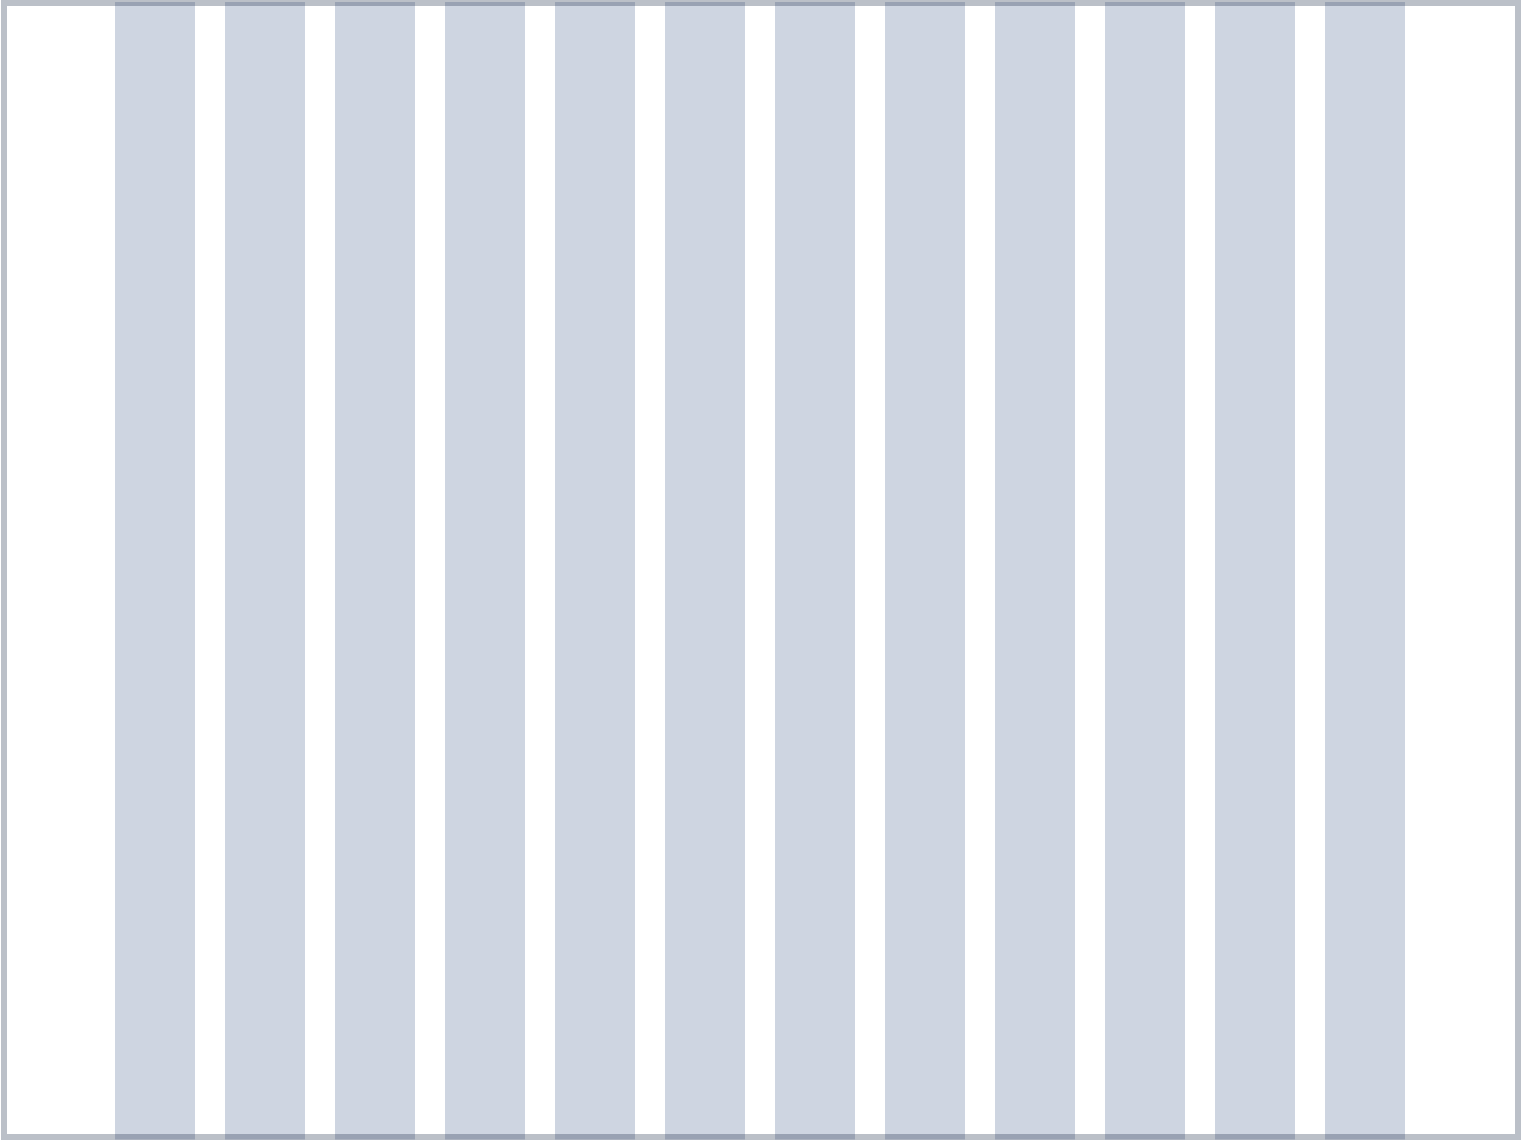
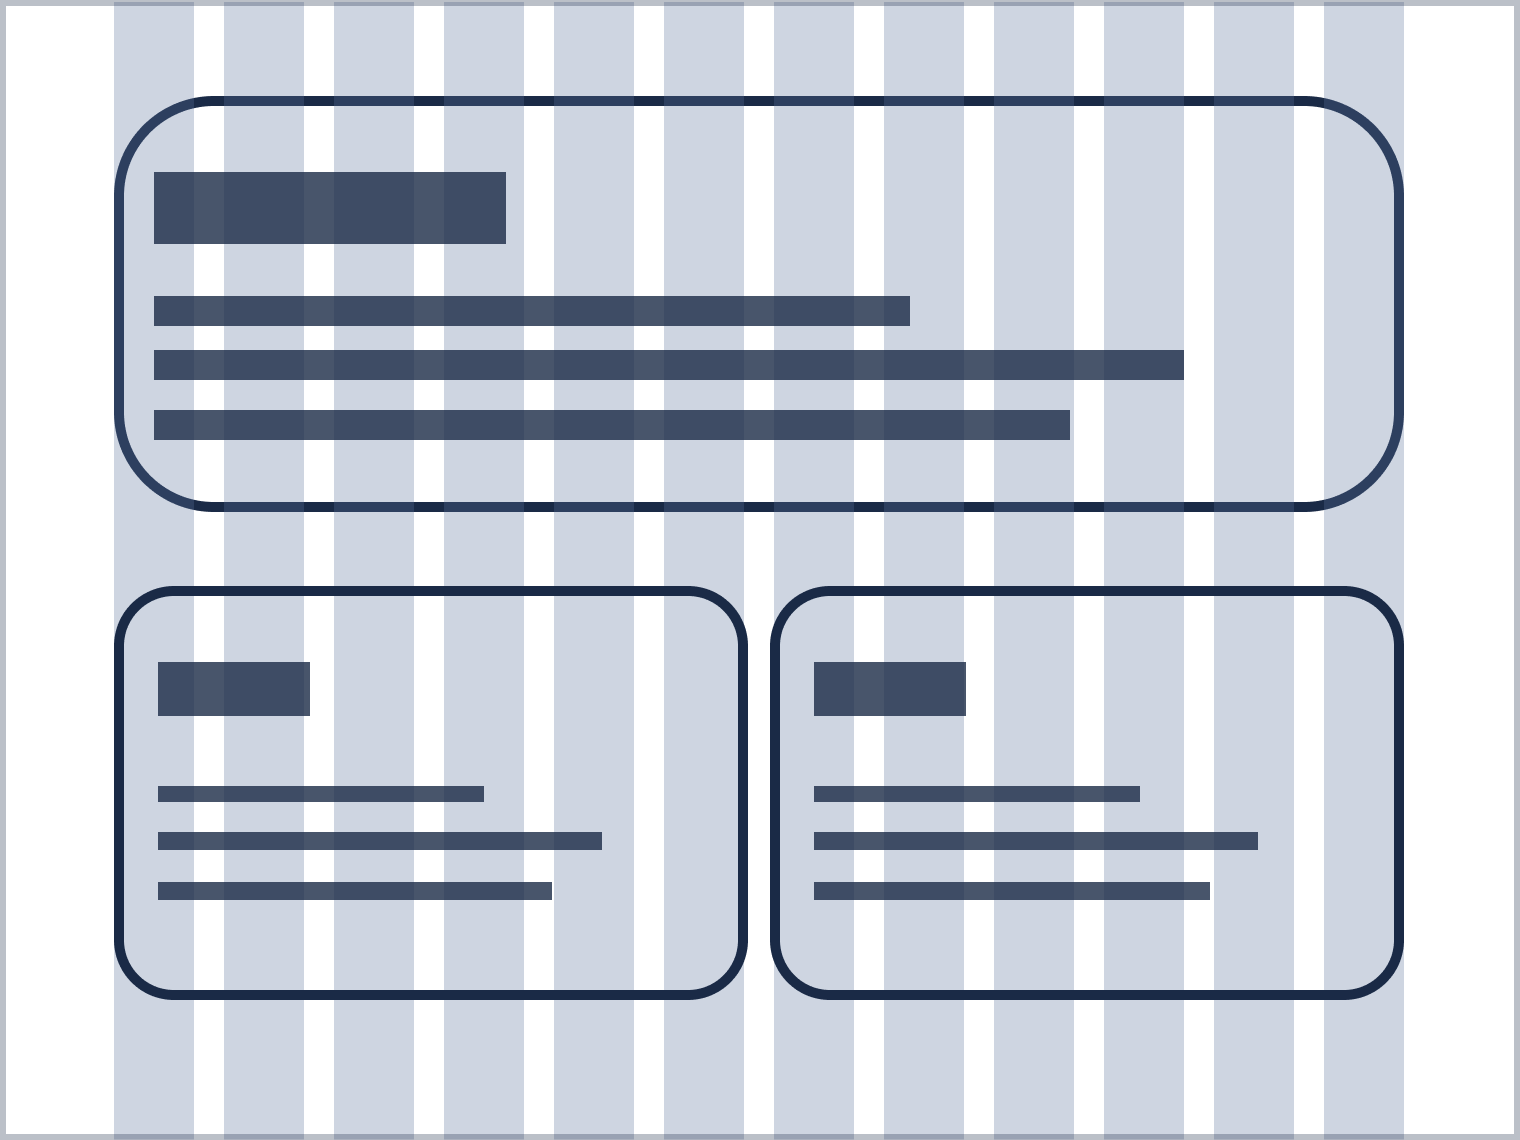
full grid page

diff --git a/source/grid.html b/source/grid.html
@@ -36,7 +36,8 @@
       <div class="inner-content">
         <section class="grid-concept main-inner__section observed-section" id="concept">
           <h2 class="main-inner__title title title--middle">Концепция сетки</h2>
-          <p class="grid-concept__text">Для обеспечения структурированности и&nbsp;легкости восприятия контента
+          <p class="grid-concept__text main-inner__title">Для обеспечения структурированности и&nbsp;легкости восприятия
+            контента
             на&nbsp;странице мы&nbsp;используем сетку, основанную на&nbsp;12&nbsp;колонках. Это обеспечивает гибкость
             распределения элементов и&nbsp;и&nbsp;создает удобный, интуитивно понятный горизонтальный ритм.</p>
           <h3 class="main-inner__subtitle title title--small">Преимущества</h3>
@@ -52,6 +53,77 @@
                 alt="Темноволосая девушка сидит в позе лотоса и медитирует" width="253" height="216">
             </picture>
           </div> -->
+        </section>
+        <section class="columng-grid main-inner__section observed-section" id="column">
+          <h2 class="main-inner__title title title--middle">Колонки</h2>
+          <p class="columng-grid__text main-inner__subtitle">Содержимое контента выравнивается по&nbsp;12-ти столбцам
+            сетки, для обеспечения
+            порядка и&nbsp;легкого интуитивно понятного восприятия.</p>
+          <picture class="columng-grid__picture">
+            <source type="image/webp" srcset="img/column.webp 1x,img/column@2x.webp 2x">
+            <img class="columng-grid__image" src="img/column.png" srcset="img/column@2x.png 2x"
+              alt="Содержимое нашего контента находится в пределах 12 колонок" width="760" height="570">
+          </picture>
+        </section>
+        <section class="gap-grid main-inner__section observed-section" id="gap">
+          <h2 class="main-inner__title title title--middle">Гэпы</h2>
+          <p class="gap-grid__text main-inner__subtitle">Размер внутренних отступов между колонками в&nbsp;контейнере
+            фиксирован и&nbsp;равен 30px.</p>
+          <picture class="gap-grid__picture">
+            <source type="image/webp" srcset="img/gap.webp 1x,img/gap@2x.webp 2x">
+            <img class="gap-grid__image" src="img/gap.png" srcset="img/gap@2x.png 2x"
+              alt="Отступ между колонками равен 30 пикселям" width="760" height="570">
+          </picture>
+        </section>
+        <section class="padding-grid main-inner__section observed-section" id="padding">
+          <h2 class="main-inner__title title title--middle">Паддинг</h2>
+          <p class="padding-grid__text main-inner__subtitle">Пространство между внешними столбцами и&nbsp;контейнером
+            неизменно всегда и&nbsp;равно 60px.</p>
+          <picture class="padding-grid__picture">
+            <source type="image/webp" srcset="img/padding.webp 1x,img/padding@2x.webp 2x">
+            <img class="padding-grid__image" src="img/padding.png" srcset="img/padding@2x.png 2x"
+              alt="Паддинг от контейнера до края экрана равен 60 пикселям" width="760" height="570">
+          </picture>
+        </section>
+        <section class="width-grid main-inner__section observed-section" id="width">
+          <h2 class="main-inner__title title title--middle">Размеры</h2>
+          <p class="width-grid__text main-inner__subtitle">Размер контейтера определяет базовую сетку, ширина экрана
+            равна 1160px.</p>
+          <picture class="width-grid__picture">
+            <source type="image/webp" srcset="img/width.webp 1x,img/width@2x.webp 2x">
+            <img class="width-grid__image" src="img/width.png" srcset="img/width@2x.png 2x"
+              alt="Контентная область сайта равна 1160 пикселям" width="760" height="570">
+          </picture>
+        </section>
+        <section class="menu-grid main-inner__section observed-section" id="menu">
+          <h2 class="main-inner__title title title--middle">Меню</h2>
+          <p class="menu-grid__text main-inner__subtitle">Меню занимает размер сетки в&nbsp;ширину в&nbsp;12-ти
+            столбцов&nbsp;&mdash; 1160px.</p>
+          <picture class="menu-grid__picture">
+            <source type="image/webp" srcset="img/menu.webp 1x,img/menu@2x.webp 2x">
+            <img class="menu-grid__image" src="img/menu.png" srcset="img/menu@2x.png 2x"
+              alt="Меню занимает всю контентную область" width="760" height="570">
+          </picture>
+        </section>
+        <section class="content-grid main-inner__section observed-section" id="content">
+          <h2 class="main-inner__title title title--middle">Расположение контента</h2>
+          <p class="content-grid__text main-inner__subtitle">Контент располагается на сетке, согласно стоблцам.</p>
+          <picture class="content-grid__picture">
+            <source type="image/webp" srcset="img/content.webp 1x,img/content@2x.webp 2x">
+            <img class="content-grid__image" src="img/content.png" srcset="img/content@2x.png 2x"
+              alt="Один блок занимает всю ширину, под ним 2 рядом" width="760" height="570">
+          </picture>
+        </section>
+        <section class="fixed-grid main-inner__section observed-section" id="fixed">
+          <h2 class="main-inner__title title title--middle">Фиксированный контент</h2>
+          <p class="fixed-grid__text main-inner__subtitle">Боковая навигационная панель имеет фиксированную ширину
+            и&nbsp;не&nbsp;вписывается в&nbsp;сетку. Если нужно разместить контент относительно нее, используем
+            в&nbsp;качестве отступа размер желоба умноженный на&nbsp;2&nbsp;&mdash; 80px.</p>
+          <picture class="fixed-grid__picture">
+            <source type="image/webp" srcset="img/fixedContent.webp 1x,img/fixedContent@2x.webp 2x">
+            <img class="fixed-grid__image" src="img/fixedContent.png" srcset="img/fixedContent@2x.png 2x"
+              alt="Меню сбоку имеет фиксированный размер, а расстояние от него до центральной части равно 97 пискелей" width="760" height="570">
+          </picture>
         </section>
       </div>
     </div>

diff --git a/source/palette.html b/source/palette.html
@@ -36,7 +36,7 @@
         <section class="important-color main-inner__section observed-section" id="important">
           <h2 class="main-inner__title title title--middle">Важность цвета</h2>
           <h3 class="main-inner__subtitle title title--small">Цвет и&nbsp;эмоции</h3>
-          <div class="important-color__block important-color__block--role flex">
+          <div class="important-color__block main-inner__subtitle flex">
             <p class="important-color__block-text important-color__block-text--emotion">Цвет в&nbsp;нашей дизайн системе
               играет ключевую роль в&nbsp;создании
               атмосферы умиротворения и&nbsp;спокойствия. Цвета были тщательно подобраны для поддержки психологического
@@ -47,14 +47,14 @@
                 alt="Девушка, умиротворенно сидит опрокинув голову" width="253" height="116">
             </picture>
           </div>
-          <p class="important-color__text important-color__text--emotion-margin">Цвет в&nbsp;дизайне интерфейса
+          <p class="important-color__text main-inner__title">Цвет в&nbsp;дизайне интерфейса
             не&nbsp;просто эстетический выбор,
             он&nbsp;оказывает глубокое влияние на&nbsp;эмоциональное состояние пользователя. В&nbsp;нашем случае, цвета
             были выбраны с&nbsp;учетом их&nbsp;воздействия на&nbsp;эмоции и&nbsp;направлены на&nbsp;создание
             поддерживающей среды. Глубокий темно-синий и&nbsp;светло-сиреневый создают ощущение сосредоточенности
             и&nbsp;спокойствия.</p>
           <h3 class="main-inner__subtitle title title--small">Цель цвета</h3>
-          <div class="important-color__block important-color__block--purpose">
+          <div class="important-color__block main-inner__title important-color__block--purpose">
             <p class="important-color__block-text">Цель использования цвета должна быть
               ясна, используйте цвет для поддержки различных состояний. Цвет должен поддерживать сообщение, которое
               должны быть понятным.</p>
@@ -81,9 +81,9 @@
         <section class="principles main-inner__section observed-section" id="principles">
           <h2 class="main-inner__title title title--middle">Принципы</h2>
           <h3 class="main-inner__subtitle title title--small">Контрастность</h3>
-          <p class="principles__text">Контраст между светлым текстом и&nbsp;темным фоном, как и&nbsp;наоборот,
+          <p class="principles__text main-inner__subtitle">Контраст между светлым текстом и&nbsp;темным фоном, как и&nbsp;наоборот,
             обеспечивает высокую читаемость, делая контент легким для восприятия.</p>
-          <div class="principles__example">
+          <div class="principles__example main-inner__title">
             <div class="principles__example-block">
               <span class="main-inner__element main-inner__element--invalid">Неверно</span>
               <div class="principles__example-block-element flex flex--center">
@@ -105,7 +105,7 @@
         <section class="main-colors main-inner__section observed-section" id="main-colors">
           <h2 class="main-inner__title title title--middle">Основные цвета</h2>
           <h3 class="main-inner__subtitle title title--small">Цвета текста и&nbsp;фона</h3>
-          <div class="colors-example colors-example--background">
+          <div class="colors-example colors-example--background main-inner__subtitle">
             <div class="color color--big color--border-light" style="--block-color: #e6e6e6;">
               <p class="color__text">HEX: <span class="color__code">#E6E6E6</span></p>
             </div>
@@ -116,7 +116,7 @@
                 инверсия.</p>
             </div>
           </div>
-          <div class="colors-example colors-example--background">
+          <div class="colors-example colors-example--background main-inner__title">
             <div class="color color--big" style="--block-color: #152034;">
               <p class="color__text">HEX: <span class="color__code">#152034</span></p>
             </div>
@@ -132,7 +132,7 @@
             </div>
           </div>
           <h3 class="main-inner__subtitle title title--small">Цвет фона</h3>
-          <div class="colors-example colors-example--background">
+          <div class="colors-example colors-example--background main-inner__title">
             <div class="color color--big color--border-dark" style="--block-color: #BDC3D5;">
               <p class="color__text">HEX: <span class="color__code">#BDC3D5</span></p>
             </div>
@@ -162,7 +162,7 @@
         </section>
         <section class="main-inner__section secondary-colors observed-section" id="secondary-colors">
           <h2 class="main-inner__title title title--middle">Вторичные цвета</h2>
-          <p class="secondary-colors__text">Мы&nbsp;используем вариацию дополнительных цветов для придачи нашим
+          <p class="secondary-colors__text main-inner__subtitle">Мы&nbsp;используем вариацию дополнительных цветов для придачи нашим
             иллюстрациям яркости и&nbsp;уникальности, вовлекая пользователя в&nbsp;процесс и&nbsp;обеспечивая
             спокойствие.</p>
           <div class="colors-example">
@@ -197,7 +197,7 @@
         </section>
         <section class="inactive-colors main-inner__section observed-section" id="inactive-colors">
           <h2 class="main-inner__title title title--middle">Неактивные цвета</h2>
-          <p class="inactive-colors__text">Оттенки серого используются для обозначения неактивных состояний, элементов,
+          <p class="inactive-colors__text main-inner__subtitle">Оттенки серого используются для обозначения неактивных состояний, элементов,
             которые находятся в&nbsp;процессе ожидания или не&nbsp;завершены.</p>
           <div class="colors-example">
             <div class="color" style="--block-color: #D9D9D9;">

diff --git a/source/index.html b/source/index.html
@@ -159,10 +159,10 @@
             <fieldset class="form-area__fieldset">
               <legend class="form-area__label visually-hidden">Персональные данные</legend>
               <input class="form-area__input" placeholder="Ваша почта" type="email" id="email" name="email"
-                title="someemail@mail.com">
+                title="someemail@mail.com" autocomplete="email">
               <label for="email" class="visually-hidden">Почта</label>
               <input class="form-area__input" placeholder="Ваше имя" type="text" id="name" name="name"
-                title="Только буквы разрешены" pattern="^[A-Za-zА-Яа-я]+$">
+                title="Только буквы разрешены" pattern="^[A-Za-zА-Яа-я ]+$" autocomplete="name">
               <label for="name" class="form-area__label visually-hidden">Имя</label>
             </fieldset>
             <label for="comment" class="form-area__label visually-hidden">Введите комментарий</label>

diff --git a/source/sass/blocks/important-color.scss b/source/sass/blocks/important-color.scss
@@ -1,9 +1,3 @@
-.important-color__title,
-.important-color__block,
-.important-color__text--emotion-margin {
-  margin: 0 0 40px 0;
-}
-
 .important-color__block-text {
   margin: 0;
 }
@@ -11,10 +5,6 @@
 .important-color__block-text--emotion,
 .important-color__block-text--influence {
   max-width: 360px;
-}
-
-.important-color__block--role {
-  margin: 0 0 20px 0;
 }
 
 .important-color__block--purpose {

diff --git a/source/sass/blocks/principles.scss b/source/sass/blocks/principles.scss
@@ -1,10 +1,5 @@
-.principles__text {
-  margin: 0 0 20px 0;
-
-
-  &:last-child {
-    margin: 0;
-  }
+.principles__text:last-of-type {
+  margin: 0;
 }
 
 .principles__example {
@@ -12,7 +7,6 @@
   grid-template-columns: repeat(2, 1fr);
   gap: 30px;
   padding: 30px 69px 57px 69px;
-  margin: 0 0 40px 0;
   border: 5px solid var(--secondary-border-color);
   border-radius: 30px;
 }

diff --git a/source/sass/style.scss b/source/sass/style.scss
@@ -29,8 +29,7 @@
 @import "./blocks/color.scss";
 @import "./blocks/main-colors.scss";
 @import "./blocks/colors-example.scss";
-@import "./blocks/secondary-colors.scss";
-@import "./blocks/inactive-colors.scss";
 @import "./blocks/colors-rules.scss";
 @import "./blocks/colors-article.scss";
 @import "./blocks/grid-concept.scss";
+@import "./blocks/fixed-grid.scss";

diff --git a/source/sass/blocks/colors-example.scss b/source/sass/blocks/colors-example.scss
@@ -5,11 +5,5 @@
 
   &--background {
     grid-template-columns: 260px 1fr;
-    margin: 0 0 20px 0;
-  }
-
-  &--background:nth-of-type(3),
-  &--background:nth-of-type(2) {
-    margin: 0 0 40px 0;
   }
 }

diff --git a/source/sass/blocks/container.scss b/source/sass/blocks/container.scss
@@ -1,6 +1,6 @@
 .container {
-  width: 1260px;
-  padding: 0 50px;
+  width: 1280px;
+  padding: 0 60px;
   margin: 0 auto;
 
   &--inner {

diff --git a/source/sass/blocks/theme-button.scss b/source/sass/blocks/theme-button.scss
@@ -2,6 +2,7 @@
   position: fixed;
   top: 203px;
   right: 5px;
+  z-index: 2;
   width: 72px;
   height: 72px;
   padding: 0;

diff --git a/source/sass/blocks/grid-concept.scss b/source/sass/blocks/grid-concept.scss
@@ -1,7 +1,3 @@
-.grid-concept__text {
-  margin: 0 0 40px 0;
-}
-
 .grid-concept .main-inner__subtitle {
   margin: 0;
 }

diff --git a/source/sass/blocks/fixed-grid.scss b/source/sass/blocks/fixed-grid.scss
@@ -1,0 +1,3 @@
+.fixed-grid {
+  margin: 0 0 120px 0;
+}
